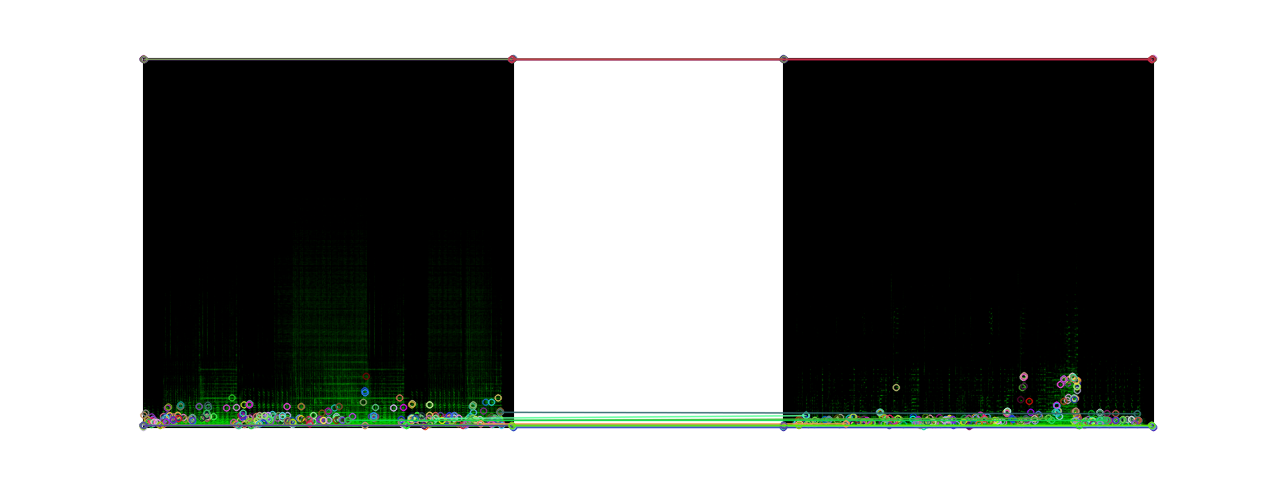
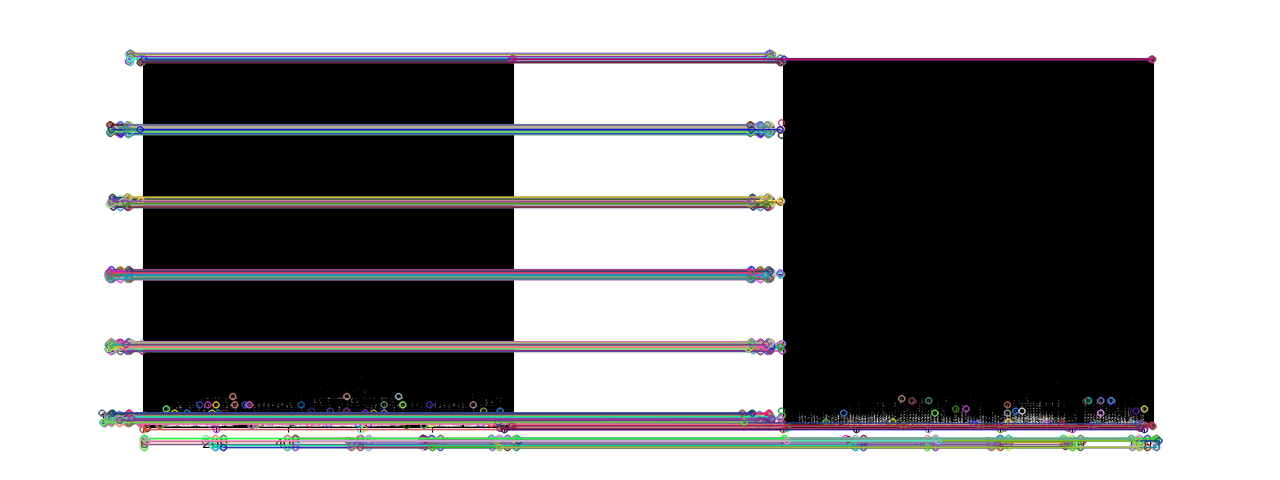
tests

diff --git a/imgComparison/main.py b/imgComparison/main.py
@@ -4,7 +4,7 @@ import cv2
 results_file = open('results.txt', 'a')
 
 # first_image, second_image = input("First image name: "), input("First image name: ")
-first_image, second_image = 'green_filtered2.png', 'green_filtered4.png'
+first_image, second_image = 'yellow_filtered2.png', 'yellow_filtered3.png'
 results_file.write(f'\n{first_image} and image {second_image}\n')
 first_image, second_image = cv2.imread(first_image), cv2.imread(second_image)
 
@@ -34,7 +34,7 @@ matcher = cv2.BFMatcher(cv2.NORM_HAMMING)
 matches = matcher.knnMatch(descriptor_one, descriptor_two, k=2)
 good_matches = []
 for match, n in matches:
-    if match.distance < 0.7* n.distance:
+    if match.distance < 0.5 * n.distance:
         good_matches.append([match])
 matches_image = cv2.drawMatchesKnn(first_image,
                                    keypoint_one,
